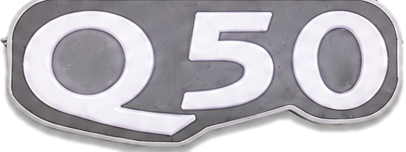
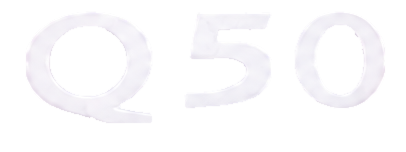
Clean emblem lip and confine grille glow to the Q50 letters
Crop the grey mounting crescent off the emblem photo and ring, show only
the Q50 glyphs on the grille tile, and drop the halo that was flashing
around the badge.

diff --git a/src/components/vehicle-stage.tsx b/src/components/vehicle-stage.tsx
@@ -154,7 +154,7 @@ function Shot({
   );
 }
 
-function MaskGlow({ src, color }: { src: string; color: string }) {
+function MaskGlow({ src, color, halo = false }: { src: string; color: string; halo?: boolean }) {
   return (
     <span
       aria-hidden
@@ -171,7 +171,7 @@ function MaskGlow({ src, color }: { src: string; color: string }) {
         maskPosition: "center",
         WebkitMaskSize: "100% 100%",
         maskSize: "100% 100%",
-        filter: `drop-shadow(0 0 4px ${color})`,
+        filter: halo ? `drop-shadow(0 0 3px ${color})` : undefined,
       }}
     />
   );
@@ -216,7 +216,7 @@ function EmblemIcon({ controller, elapsed }: { controller?: Controller; elapsed:
   const rim = on ? rgbToCss(ledColor(controller, elapsed, 0, 24), 0.92) : undefined;
   return (
     <Shot src="/products/emblem.png" width={520} height={282}>
-      {on ? <MaskGlow src="/products/emblem-ring.png" color={rim!} /> : null}
+      {on ? <MaskGlow src="/products/emblem-ring.png" color={rim!} halo /> : null}
     </Shot>
   );
 }
@@ -372,12 +372,7 @@ function BadgeIcon({
   if (caption === "Q50") {
     return (
       <Shot src="/products/grille-badge.png" width={406} height={152}>
-        {on ? (
-          <>
-            <MaskGlow src="/products/grille-letters.png" color={rgbToCss(rgb, 0.5)} />
-            <MaskGlow src="/products/grille-letter-edge.png" color={rgbToCss(rgb, 0.96)} />
-          </>
-        ) : null}
+        {on ? <MaskGlow src="/products/grille-letters.png" color={rgbToCss(rgb, 0.82)} /> : null}
       </Shot>
     );
   }
